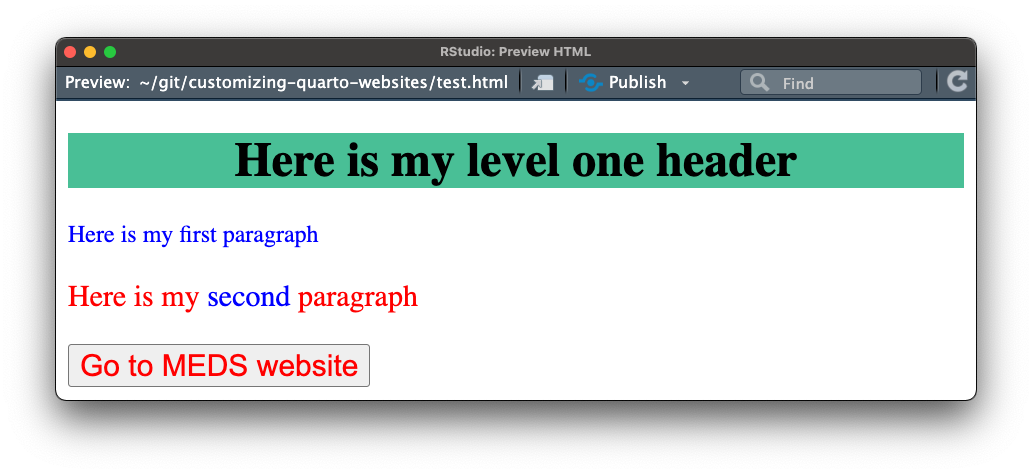
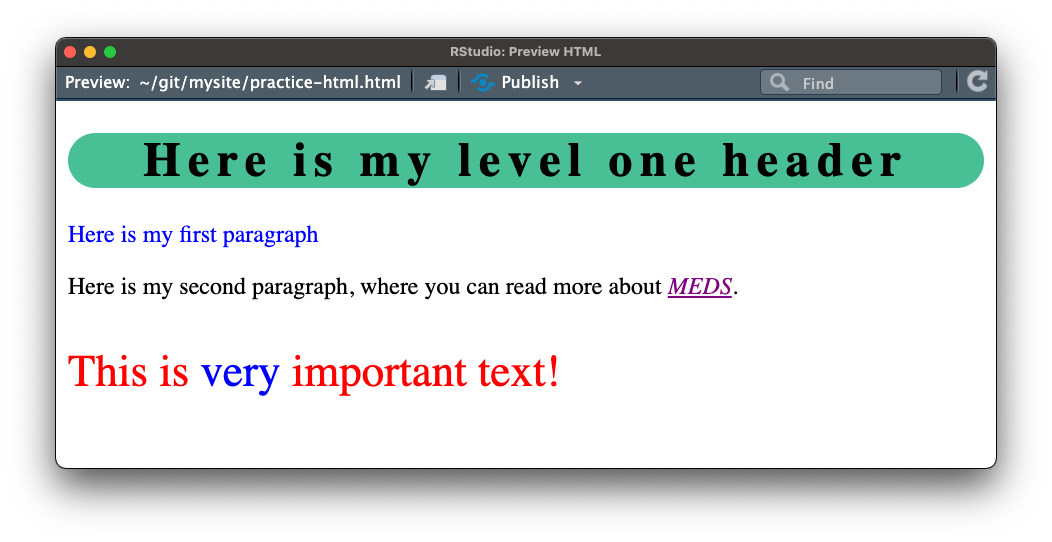
updated practice css exercise

Changed region(s): [[0.031, 0.0591, 0.9612, 0.5612], [0.031, 0.827, 0.9612, 0.9156], [0.062, 0.5907, 0.5271, 0.7975]]

diff --git a/index.html b/index.html
@@ -1662,7 +1662,7 @@ A <em>light</em> introduction to CSS <svg aria-label="Alternate CSS3 Logo" role=
 </div>
 <div id="tabset-9-2">
 <div class="body-text">
-<p>Rather than defining separate rules for multiple element selectors that you want styled the same way, you can group them together. Simply separate each selector by a comma.</p>
+<p>Group multiple element selectors together (separated by commas) if you want them all styled the same way.</p>
 </div>
 <div class="columns">
 <div class="column" style="width:60%;">
@@ -1699,7 +1699,7 @@ A <em>light</em> introduction to CSS <svg aria-label="Alternate CSS3 Logo" role=
 </div>
 </div>
 </section><section id="select-attributes" class="slide level2" data-menu-title="ID &amp; Class Selectors"><h2></h2>
-<p><span class="slide-title">Target element(s) using attributes</span></p>
+<p><span class="slide-title-smaller">Target element(s) using HTML attributes</span></p>
 <!-- Select an element(s) using attributes -->
 <hr>
 <div class="panel-tabset">
@@ -1950,7 +1950,7 @@ A <em>light</em> introduction to CSS <svg aria-label="Alternate CSS3 Logo" role=
 <p><span class="slide-title">Exercise: practice writing CSS (1/3)</span></p>
 <hr>
 <div class="caption-text topbr">
-<p><strong>1.</strong> Return to your RProject (where you created your <code>practice-html.html</code> file). In your terminal window, use the <code>touch</code> command to create a CSS file in the same location as your html file:</p>
+<p><strong>1.</strong> Return to your R Project (where you created your <code>practice-html.html</code> file). In the RStudio Terminal, use the <code>touch</code> command to create a CSS file in the same location as your html file:</p>
 </div>
 <div class="cell">
 <div class="sourceCode cell-code" id="cb35"><pre class="sourceCode numberSource bash number-lines code-with-copy"><code class="sourceCode bash"><span id="cb35-1"><a href="#cb35-1"></a><span class="fu">touch</span> practice-styles.css</span></code><button title="Copy to Clipboard" class="code-copy-button"><i class="bi"></i></button></pre></div>
@@ -1960,6 +1960,10 @@ A <em>light</em> introduction to CSS <svg aria-label="Alternate CSS3 Logo" role=
 <p><strong>2.</strong> Link your CSS file inside the <code>&lt;head&gt;</code> of your HTML file (read more about inserting style sheets <a href="https://www.w3schools.com/css/css_howto.asp">here</a>).</p>
 </div>
 <div class="cell">
+<div class="code-with-filename">
+<div class="code-with-filename-file">
+<pre><strong>practice-html.html</strong></pre>
+</div>
 <div class="sourceCode cell-code" id="cb36" data-code-line-numbers="5"><pre class="sourceCode numberSource html number-lines code-with-copy"><code class="sourceCode html"><span id="cb36-1"><a href="#cb36-1"></a><span class="dt">&lt;!DOCTYPE </span>html<span class="dt">&gt;</span> <span class="co">&lt;!-- All HTML docs start with a doc type declaration--&gt;</span></span>
 <span id="cb36-2"><a href="#cb36-2"></a><span class="kw">&lt;html&gt;</span> <span class="co">&lt;!-- This tag represents the root of the HTML doc --&gt;</span></span>
 <span id="cb36-3"><a href="#cb36-3"></a><span class="kw">&lt;head&gt;</span></span>
@@ -1970,10 +1974,11 @@ A <em>light</em> introduction to CSS <svg aria-label="Alternate CSS3 Logo" role=
 <span id="cb36-8"><a href="#cb36-8"></a>  <span class="co">&lt;!-- Write all the contents of the HTML doc here --&gt;</span></span>
 <span id="cb36-9"><a href="#cb36-9"></a>  <span class="kw">&lt;h1&gt;</span>Here is my level one header<span class="kw">&lt;/h1&gt;</span></span>
 <span id="cb36-10"><a href="#cb36-10"></a>  <span class="kw">&lt;p&gt;</span>Here is my first paragraph<span class="kw">&lt;/p&gt;</span></span>
-<span id="cb36-11"><a href="#cb36-11"></a>  <span class="kw">&lt;p&gt;</span>Here is my second paragraph<span class="kw">&lt;/p&gt;</span></span>
-<span id="cb36-12"><a href="#cb36-12"></a>  <span class="kw">&lt;button</span> <span class="er">type</span><span class="ot">=</span><span class="st">"button"</span> <span class="er">onclick</span><span class="ot">=</span><span class="st">window.location.href=</span><span class="er">'https://ucsb-meds.github.io'</span><span class="kw">&gt;</span>Go to MEDS website<span class="kw">&lt;/button&gt;</span></span>
+<span id="cb36-11"><a href="#cb36-11"></a>  <span class="kw">&lt;p&gt;</span>Here is my second paragraph, where you can read more about <span class="kw">&lt;a</span> <span class="er">href</span><span class="ot">=</span><span class="st">"https://ucsb-meds.github.io/"</span><span class="kw">&gt;</span>MEDS<span class="kw">&lt;/a&gt;</span>.<span class="kw">&lt;/p&gt;</span></span>
+<span id="cb36-12"><a href="#cb36-12"></a>  <span class="kw">&lt;p&gt;</span>This is very important text!<span class="kw">&lt;/p&gt;</span></span>
 <span id="cb36-13"><a href="#cb36-13"></a><span class="kw">&lt;/body&gt;</span></span>
 <span id="cb36-14"><a href="#cb36-14"></a><span class="kw">&lt;/html&gt;</span></span></code><button title="Copy to Clipboard" class="code-copy-button"><i class="bi"></i></button></pre></div>
+</div>
 </div>
 </div>
 </section><section id="css-practice2" class="slide level2" data-menu-title="Practice CSS (2/3)"><h2></h2>
@@ -1983,25 +1988,24 @@ A <em>light</em> introduction to CSS <svg aria-label="Alternate CSS3 Logo" role=
 <p><strong>3.</strong> Write some CSS selectors in your <code>practice-styles.css</code> file and save. Update your HTML file accordingly to apply your styles and <strong>Preview</strong> <code>practice-html.html</code> to see the updates. Some suggestions:</p>
 </div>
 <div class="caption-text topbr">
-<p><strong>(a)</strong> create an <code>&lt;h1&gt;</code> element selector that styles the background color to something of your choosing (hex and rgb codes allowed!) <em>and</em> centers the text on the page,</p>
+<p><strong>(a)</strong> create an <code>&lt;h1&gt;</code> element selector that styles the background color to something of your choosing (hex and rgb codes allowed!), rounds the edges of the background box, increases the spacing between each letter, <em>and</em> centers the text on the page,</p>
 </div>
 <div class="caption-text topbr">
-<p><strong>(b)</strong> create a class selector to color the text of your first paragraph blue,</p>
+<p><strong>(b)</strong> create an element selector that changes the color of hyperlinked text and italicizes it</p>
 </div>
 <div class="caption-text topbr">
-<p><strong>(c)</strong> use that same class selector <em>inline</em> to style just the word <strong>second</strong> (in your second paragraph) blue,</p>
+<p><strong>(c)</strong> create a class selector that you can use to color your first paragraph (“Here is my first paragraph”) blue,</p>
 </div>
 <div class="caption-text topbr">
-<p><strong>(d)</strong> create a class selector to color your button text red and enlarge the font size (try <code>20px</code>),</p>
+<p><strong>(d)</strong> create a class selector to that you can use to color your third paragraph (“This is very important text!”) red and enlarge the font size (try <code>20px</code>),</p>
 </div>
 <div class="caption-text topbr">
-<p><strong>(bonus)</strong> What happens if you also apply that red/large font selector (from part <strong>(d)</strong>) to your second paragraph?</p>
+<p><strong>(e)</strong> use your class selector from <strong>Step c</strong> <em>inline</em> to color just the word “very” (in your third paragraph) blue</p>
 </div>
 <p><br></p>
-<div class="caption-text center-text">
-<p>Explore a list of all CSS properties <a href="https://www.w3schools.com/cssref/">here</a>.</p>
+<div class="body-text center-text important-text-bg">
+<p>It’ll be especially helpful to explore this list of available <a href="https://www.w3schools.com/cssref/">CSS properties</a>.</p>
 </div>
-<p><br></p>
 <div class="large-body-text center-text">
 <p>(One) solution on next slide!</p>
 </div>
@@ -2015,42 +2019,67 @@ A <em>light</em> introduction to CSS <svg aria-label="Alternate CSS3 Logo" role=
 <ul id="tabset-12" class="panel-tabset-tabby">
 <li><a data-tabby-default="" href="#tabset-12-1">CSS</a></li>
 <li><a href="#tabset-12-2">HTML</a></li>
-<li><a href="#tabset-12-3">Output</a></li>
+<li><a href="#tabset-12-3">Rendered HTML</a></li>
 </ul>
 <div class="tab-content">
 <div id="tabset-12-1">
 <div class="cell">
-<div class="sourceCode cell-code" id="cb37"><pre class="sourceCode numberSource css number-lines code-with-copy"><code class="sourceCode css"><span id="cb37-1"><a href="#cb37-1"></a>h1 {</span>
-<span id="cb37-2"><a href="#cb37-2"></a>  <span class="kw">background-color</span>: <span class="cn">#49bf96</span><span class="op">;</span></span>
-<span id="cb37-3"><a href="#cb37-3"></a>  <span class="kw">text-align</span>: <span class="dv">center</span><span class="op">;</span></span>
-<span id="cb37-4"><a href="#cb37-4"></a>}</span>
-<span id="cb37-5"><a href="#cb37-5"></a></span>
-<span id="cb37-6"><a href="#cb37-6"></a><span class="fu">.blue-text</span> {</span>
-<span id="cb37-7"><a href="#cb37-7"></a>  <span class="kw">color</span>: <span class="cn">blue</span><span class="op">;</span></span>
-<span id="cb37-8"><a href="#cb37-8"></a>}</span>
-<span id="cb37-9"><a href="#cb37-9"></a></span>
-<span id="cb37-10"><a href="#cb37-10"></a><span class="fu">.large-red-text</span>{</span>
-<span id="cb37-11"><a href="#cb37-11"></a>  <span class="kw">color</span>: <span class="cn">red</span><span class="op">;</span></span>
-<span id="cb37-12"><a href="#cb37-12"></a>  <span class="kw">font-size</span>: <span class="dv">20</span><span class="dt">px</span><span class="op">;</span></span>
-<span id="cb37-13"><a href="#cb37-13"></a>}</span></code><button title="Copy to Clipboard" class="code-copy-button"><i class="bi"></i></button></pre></div>
+<div class="code-with-filename">
+<div class="code-with-filename-file">
+<pre><strong>practice-styles.css</strong></pre>
+</div>
+<div class="sourceCode cell-code" id="cb37"><pre class="sourceCode numberSource css number-lines code-with-copy"><code class="sourceCode css"><span id="cb37-1"><a href="#cb37-1"></a><span class="co">/* ------- element selectors ------- */</span></span>
+<span id="cb37-2"><a href="#cb37-2"></a></span>
+<span id="cb37-3"><a href="#cb37-3"></a><span class="co">/* style level one headers */</span></span>
+<span id="cb37-4"><a href="#cb37-4"></a>h1 {</span>
+<span id="cb37-5"><a href="#cb37-5"></a>  <span class="kw">background-color</span>: <span class="cn">#49bf96</span><span class="op">;</span></span>
+<span id="cb37-6"><a href="#cb37-6"></a>  <span class="kw">border-radius</span>: <span class="dv">25</span><span class="dt">px</span><span class="op">;</span></span>
+<span id="cb37-7"><a href="#cb37-7"></a>  <span class="kw">letter-spacing</span>: <span class="dv">5</span><span class="dt">px</span><span class="op">;</span></span>
+<span id="cb37-8"><a href="#cb37-8"></a>  <span class="kw">text-align</span>: <span class="dv">center</span><span class="op">;</span></span>
+<span id="cb37-9"><a href="#cb37-9"></a>}</span>
+<span id="cb37-10"><a href="#cb37-10"></a></span>
+<span id="cb37-11"><a href="#cb37-11"></a><span class="co">/* purple italicized hyperlinks */</span></span>
+<span id="cb37-12"><a href="#cb37-12"></a>a {</span>
+<span id="cb37-13"><a href="#cb37-13"></a>  <span class="kw">color</span>: <span class="cn">purple</span><span class="op">;</span></span>
+<span id="cb37-14"><a href="#cb37-14"></a>  <span class="kw">font-style</span>: <span class="dv">italic</span><span class="op">;</span></span>
+<span id="cb37-15"><a href="#cb37-15"></a>}</span>
+<span id="cb37-16"><a href="#cb37-16"></a></span>
+<span id="cb37-17"><a href="#cb37-17"></a><span class="co">/* ------- class selectors ------- */</span></span>
+<span id="cb37-18"><a href="#cb37-18"></a></span>
+<span id="cb37-19"><a href="#cb37-19"></a><span class="co">/* blue text */</span></span>
+<span id="cb37-20"><a href="#cb37-20"></a><span class="fu">.blue-text</span> {</span>
+<span id="cb37-21"><a href="#cb37-21"></a>  <span class="kw">color</span>: <span class="cn">blue</span><span class="op">;</span></span>
+<span id="cb37-22"><a href="#cb37-22"></a>}</span>
+<span id="cb37-23"><a href="#cb37-23"></a></span>
+<span id="cb37-24"><a href="#cb37-24"></a><span class="co">/* large red text */</span></span>
+<span id="cb37-25"><a href="#cb37-25"></a><span class="fu">.important-text</span> {</span>
+<span id="cb37-26"><a href="#cb37-26"></a>  <span class="kw">color</span>: <span class="cn">red</span><span class="op">;</span></span>
+<span id="cb37-27"><a href="#cb37-27"></a>  <span class="kw">font-size</span>: <span class="dv">30</span><span class="dt">px</span><span class="op">;</span></span>
+<span id="cb37-28"><a href="#cb37-28"></a>}</span></code><button title="Copy to Clipboard" class="code-copy-button"><i class="bi"></i></button></pre></div>
+</div>
 </div>
 </div>
 <div id="tabset-12-2">
 <div class="cell">
+<div class="code-with-filename">
+<div class="code-with-filename-file">
+<pre><strong>practice-html.html</strong></pre>
+</div>
 <div class="sourceCode cell-code" id="cb38"><pre class="sourceCode numberSource html number-lines code-with-copy"><code class="sourceCode html"><span id="cb38-1"><a href="#cb38-1"></a><span class="dt">&lt;!DOCTYPE </span>html<span class="dt">&gt;</span> <span class="co">&lt;!-- All HTML docs start with a doc type declaration--&gt;</span></span>
 <span id="cb38-2"><a href="#cb38-2"></a><span class="kw">&lt;html&gt;</span> <span class="co">&lt;!-- This tag represents the root of the HTML doc --&gt;</span></span>
 <span id="cb38-3"><a href="#cb38-3"></a><span class="kw">&lt;head&gt;</span></span>
 <span id="cb38-4"><a href="#cb38-4"></a> <span class="co">&lt;!-- Write any metadata about the HTML doc here (inluding the link to an external CSS file) --&gt;</span></span>
-<span id="cb38-5"><a href="#cb38-5"></a>  <span class="kw">&lt;link</span> <span class="er">rel</span><span class="ot">=</span><span class="st">"stylesheet"</span> <span class="er">href</span><span class="ot">=</span><span class="st">"practice-styles.css"</span><span class="kw">&gt;</span> </span>
+<span id="cb38-5"><a href="#cb38-5"></a> <span class="kw">&lt;link</span> <span class="er">rel</span><span class="ot">=</span><span class="st">"stylesheet"</span> <span class="er">href</span><span class="ot">=</span><span class="st">"practice-styles.css"</span><span class="kw">&gt;</span></span>
 <span id="cb38-6"><a href="#cb38-6"></a><span class="kw">&lt;/head&gt;</span></span>
 <span id="cb38-7"><a href="#cb38-7"></a><span class="kw">&lt;body&gt;</span> </span>
 <span id="cb38-8"><a href="#cb38-8"></a>  <span class="co">&lt;!-- Write all the contents of the HTML doc here --&gt;</span></span>
 <span id="cb38-9"><a href="#cb38-9"></a>  <span class="kw">&lt;h1&gt;</span>Here is my level one header<span class="kw">&lt;/h1&gt;</span></span>
 <span id="cb38-10"><a href="#cb38-10"></a>  <span class="kw">&lt;p</span> <span class="er">class</span><span class="ot">=</span><span class="st">"blue-text"</span><span class="kw">&gt;</span>Here is my first paragraph<span class="kw">&lt;/p&gt;</span></span>
-<span id="cb38-11"><a href="#cb38-11"></a>  <span class="kw">&lt;p</span> <span class="er">class</span><span class="ot">=</span><span class="st">"large-red-text"</span><span class="kw">&gt;</span>Here is my <span class="kw">&lt;span</span> <span class="er">class</span><span class="ot">=</span><span class="st">"blue-text"</span><span class="kw">&gt;</span>second<span class="kw">&lt;/span&gt;</span> paragraph<span class="kw">&lt;/p&gt;</span></span>
-<span id="cb38-12"><a href="#cb38-12"></a>  <span class="kw">&lt;button</span> <span class="er">type</span><span class="ot">=</span><span class="st">"button"</span> <span class="er">class</span><span class="ot">=</span><span class="st">"large-red-text"</span> <span class="er">onclick</span><span class="ot">=</span><span class="st">window.location.href=</span><span class="er">'https://ucsb-meds.github.io'</span><span class="kw">&gt;</span>Go to MEDS website<span class="kw">&lt;/button&gt;</span></span>
+<span id="cb38-11"><a href="#cb38-11"></a>  <span class="kw">&lt;p&gt;</span>Here is my second paragraph, where you can read more about <span class="kw">&lt;a</span> <span class="er">href</span><span class="ot">=</span><span class="st">"https://ucsb-meds.github.io/"</span><span class="kw">&gt;</span>MEDS<span class="kw">&lt;/a&gt;</span>.<span class="kw">&lt;/p&gt;</span></span>
+<span id="cb38-12"><a href="#cb38-12"></a>  <span class="kw">&lt;p</span> <span class="er">class</span><span class="ot">=</span><span class="st">"important-text"</span><span class="kw">&gt;</span>This is <span class="kw">&lt;span</span> <span class="er">class</span><span class="ot">=</span><span class="st">"blue-text"</span><span class="kw">&gt;</span>very<span class="kw">&lt;/span&gt;</span> important text!<span class="kw">&lt;/p&gt;</span></span>
 <span id="cb38-13"><a href="#cb38-13"></a><span class="kw">&lt;/body&gt;</span></span>
 <span id="cb38-14"><a href="#cb38-14"></a><span class="kw">&lt;/html&gt;</span></span></code><button title="Copy to Clipboard" class="code-copy-button"><i class="bi"></i></button></pre></div>
+</div>
 </div>
 </div>
 <div id="tabset-12-3">
@@ -2069,7 +2098,7 @@ A <em>light</em> introduction to CSS <svg aria-label="Alternate CSS3 Logo" role=
 <div class="page-center">
 <div class="custom-subtitle">
 <svg aria-label="Question" role="img" viewbox="0 0 320 512" style="height:1em;width:0.62em;vertical-align:-0.125em;margin-left:auto;margin-right:auto;font-size:inherit;fill:#d2e3f3;overflow:visible;position:relative;"><title>Question</title>
-<path d="M80 160c0-35.3 28.7-64 64-64h32c35.3 0 64 28.7 64 64v3.6c0 21.8-11.1 42.1-29.4 53.8l-42.2 27.1c-25.2 16.2-40.4 44.1-40.4 74V320c0 17.7 14.3 32 32 32s32-14.3 32-32v-1.4c0-8.2 4.2-15.8 11-20.2l42.2-27.1c36.6-23.6 58.8-64.1 58.8-107.7V160c0-70.7-57.3-128-128-128H144C73.3 32 16 89.3 16 160c0 17.7 14.3 32 32 32s32-14.3 32-32zm80 320a40 40 0 1 0 0-80 40 40 0 1 0 0 80z"></path></svg> Okay, but what about Quarto?
+<path d="M80 160c0-35.3 28.7-64 64-64h32c35.3 0 64 28.7 64 64v3.6c0 21.8-11.1 42.1-29.4 53.8l-42.2 27.1c-25.2 16.2-40.4 44.1-40.4 74V320c0 17.7 14.3 32 32 32s32-14.3 32-32v-1.4c0-8.2 4.2-15.8 11-20.2l42.2-27.1c36.6-23.6 58.8-64.1 58.8-107.7V160c0-70.7-57.3-128-128-128H144C73.3 32 16 89.3 16 160c0 17.7 14.3 32 32 32s32-14.3 32-32zm80 320a40 40 0 1 0 0-80 40 40 0 1 0 0 80z"></path></svg> Okay, that’s cool…but what about Quarto?
 </div>
 </div>
 </section><section id="styles.css" class="slide level2" data-menu-title="Quarto comes with `styles.css`"><h2></h2>
